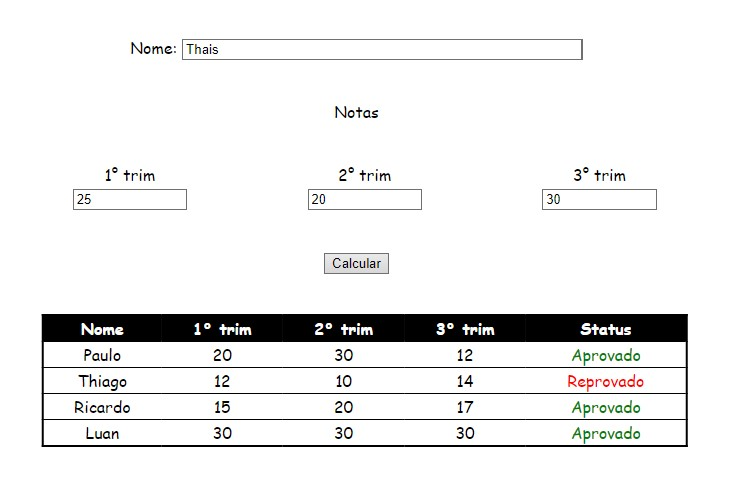
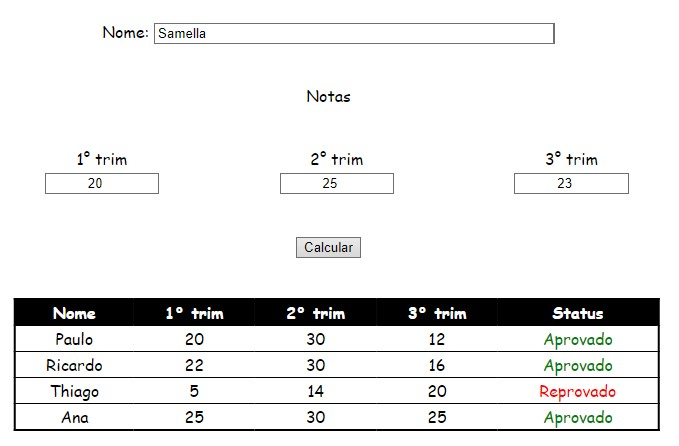
12-07-2022 11:50

diff --git a/Aulas/JavaScript/Aula 11-07-2022/notas/notas.css b/Aulas/JavaScript/Aula 11-07-2022/notas/notas.css
@@ -31,6 +31,7 @@ div.nome {
 
 .notas input {
     width: 60%;
+    text-align: center;
 }
 
 .div-tabela {

diff --git a/Aulas/JavaScript/Aula 11-07-2022/notas/README.md b/Aulas/JavaScript/Aula 11-07-2022/notas/README.md
@@ -100,7 +100,8 @@ div.nome {
 }
 
 .notas input {
-    width: 60%;
+    width: 60%;    
+    text-align: center;
 }
 
 .div-tabela {
